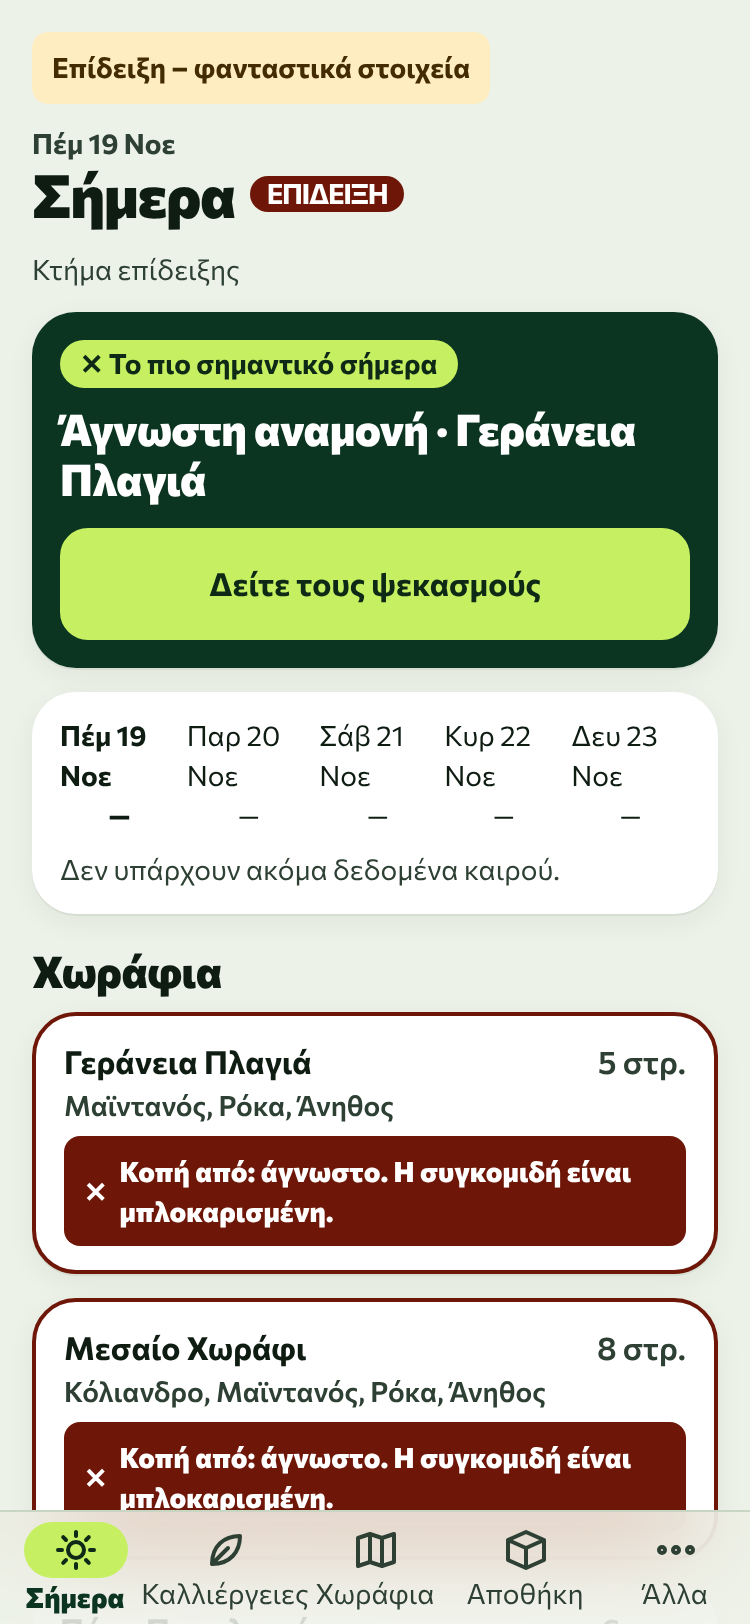
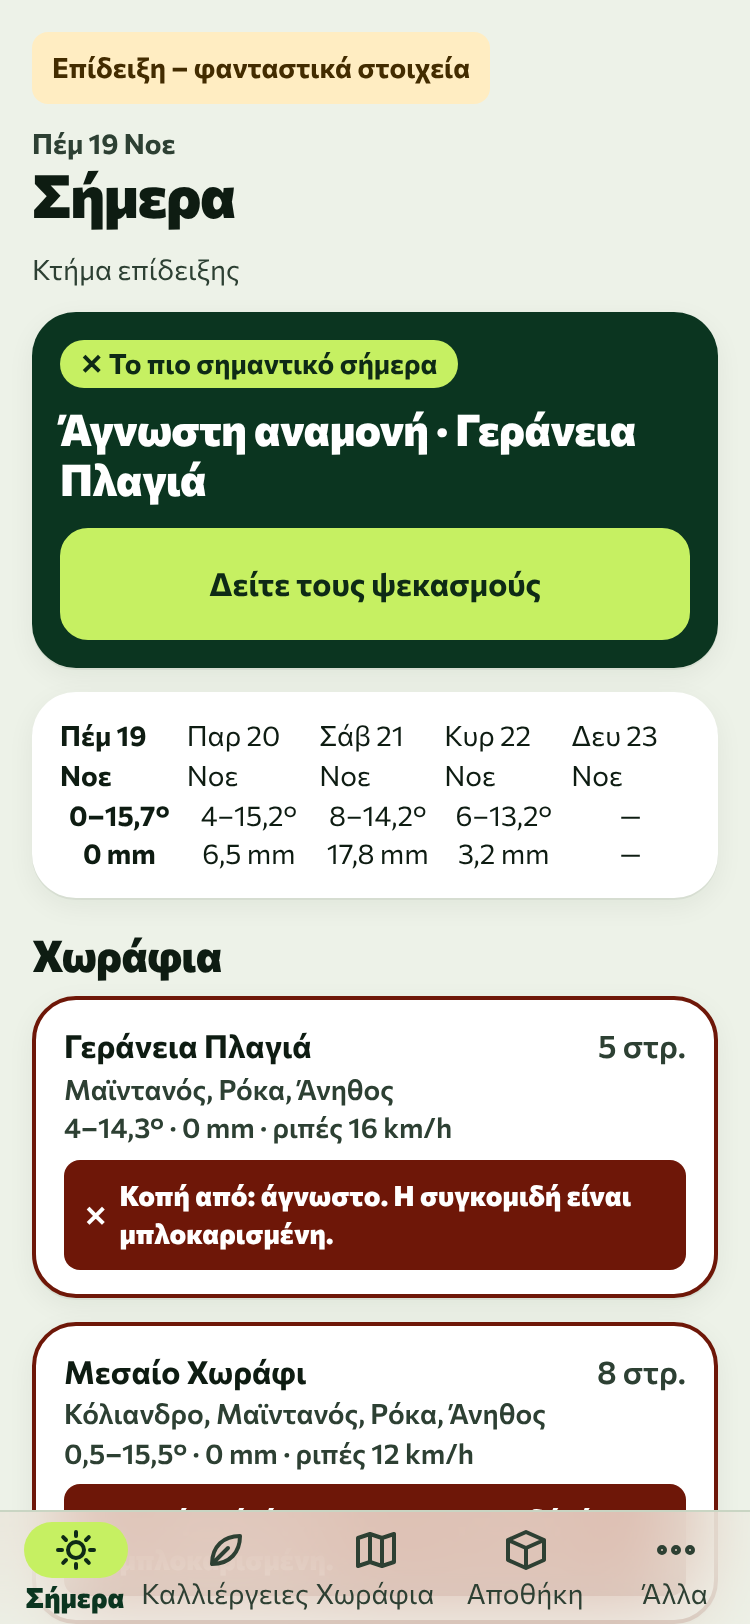
docs: final 375 px screens (second round) with a self-score (#135)
Claude-Session: https://claude.ai/code/session_01Kyi5pvQqyRio2HMDhKx7Mu

diff --git a/docs/design/screenshots-2026-11-19b/README.md b/docs/design/screenshots-2026-11-19b/README.md
@@ -1,0 +1,13 @@
+# Ana ekranlar – 375 px (2026-11-19, ikinci tur)
+
+Dosyalar: `welcome.png` (ilk açılış), `today.png` (Σήμερα, demo), `parcels.png`, `crops.png`, `stock.png`, `more.png` (hazırlık kartı dahil), `worker.png` (işçi ekranı). Hepsi Chromium, 375×812, ×2.
+
+## Kendi puanım: 7 / 10 (mockup'a göre; ekip puanı 4 idi)
+
+**Olan:** Σήμερα yeniden kuruldu (tarih, acil kart + tek düğme, hava şeridi, tarla kartları, işler listesi, Ιστορικό ayrı ekran); üstte sabit geri çubuğu; Άλλα/Αποθήκη'de ok satırları; tek rozet sistemi (simge + sözcük); 3 adımlı karşılama; işçi ekranı büyük kartlar; alan birimi kutunun içinde; kaydet düğmesi altta sabit; tabular rakamlar; «ΕΠΙΔΕΙΞΗ» tek yerde; manifest renkleri.
+
+**Eksik (puan kırdığım yerler):**
+- Χωράφια ve Καλλιέργειες listeleri hâlâ kart içinde düğmelerle; tam ok (›) satırı değil (−1).
+- PNG uygulama ikonunun arka planı yeni yeşile çevrilmedi (görsel araç yok) (−0,5).
+- Form hata mesajları alanın altında ama bazı formlarda (ilaçlama) hâlâ uzun düğme yığını var (−1).
+- Tarih/saat seçicileri büyütüldü ama Yunanca görünümü tarayıcıya bağlı; iPhone'da elle doğrulanmadı (−0,5).
